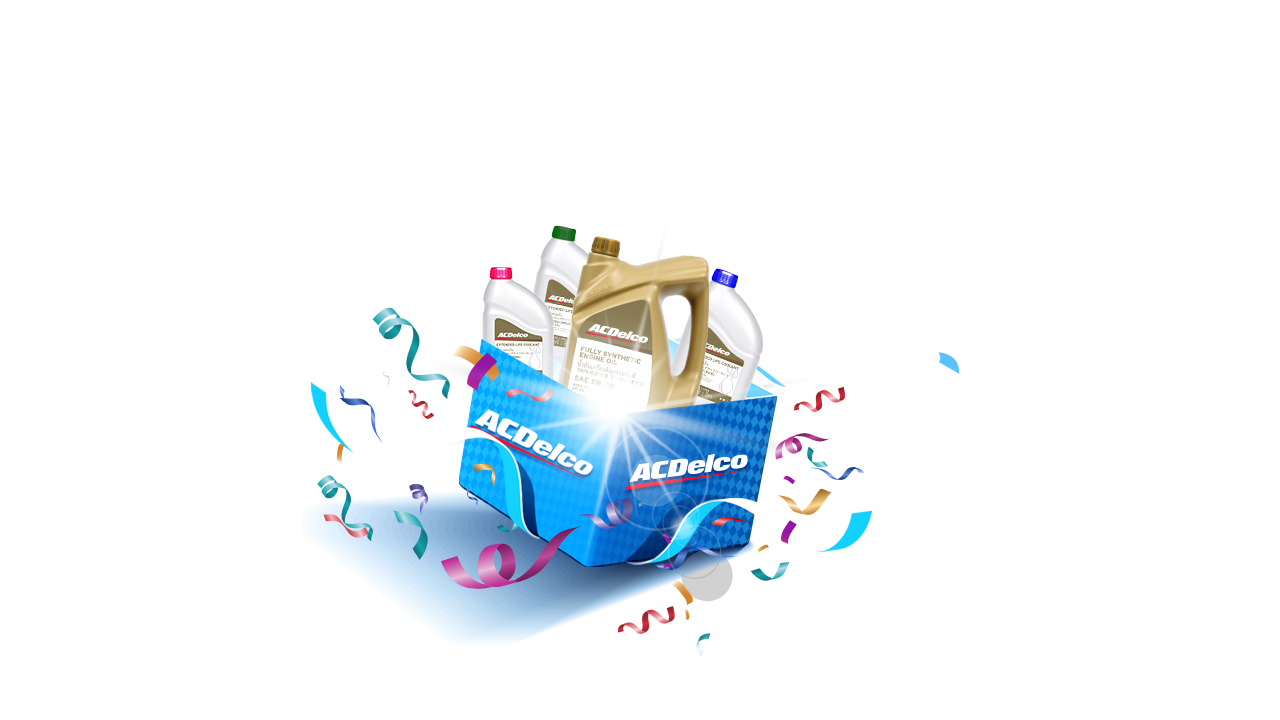
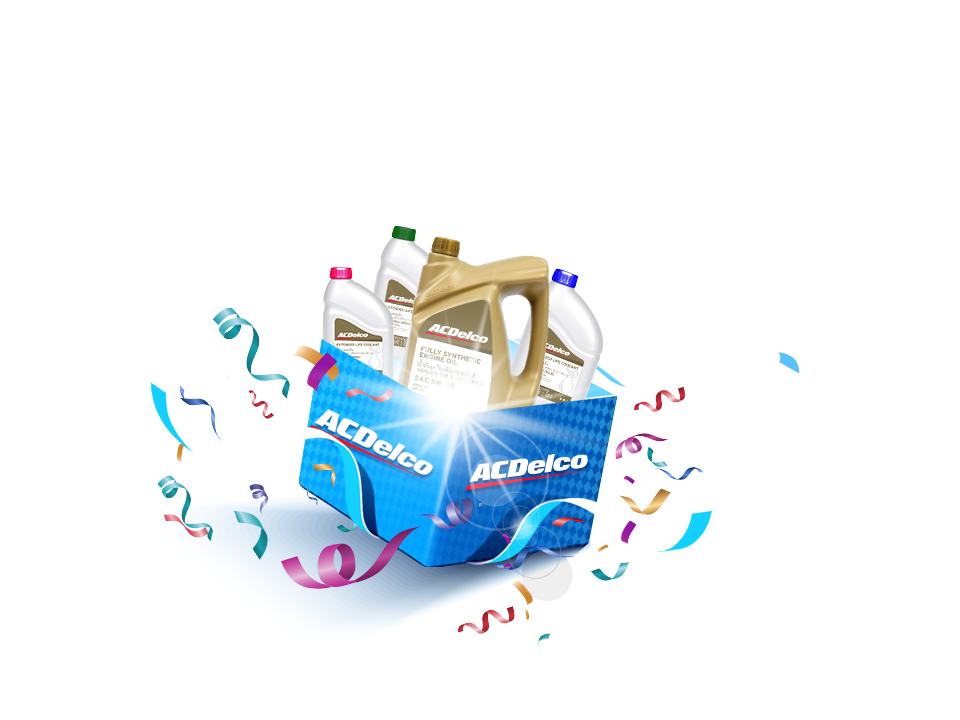
edit style

diff --git a/src/components/Winnerpage.jsx b/src/components/Winnerpage.jsx
@@ -66,7 +66,7 @@ const Winnerpage = () => {
         color: "black",
         position: "relative",
         overflow: "hidden",
-        backgroundImage: "url('BG_Luckdraw.png')",
+        backgroundImage: "url('BG_Luckdraw3.png')",
         backgroundSize: "100% 100%",
         backgroundPosition: "center",
         backgroundRepeat: "no-repeat",
@@ -92,113 +92,119 @@ const Winnerpage = () => {
           <ArrowBackIosNewIcon />
         </IconButton>
 
-        {/* Content container */}
-        <Box
-          sx={{
-            width: "100%",
-            display: "flex",
-            flexDirection: "column",
-            alignItems: "flex-end",
-            gap: 0,
-            pr: { xs: 4, sm: 6, md: 8 },
-            mt: 30,
-          }}
-        >
-          {/* Name and Sale container */}
-          <Box
-            sx={{
-              display: "flex",
-              flexDirection: "column",
-              alignItems: "center",
-              width: "58%", // This creates a box that's half the width
-            }}
-          >
-            {/* Prize Name */}
-            <Typography
-              variant="h5"
-              sx={{
-                fontFamily: "DBOzoneXBold",
-                fontWeight: "bold",
-                fontSize: { xs: "1.2rem", sm: "1.5rem", md: "4.5rem" },
-                // color: "#0C3C6F",
-                color: "white",
-                textShadow: "#2F2F2F 1px 0 8px",
-                width: 1,
-                mb: 0,
-                mt: 2,
-              }}
-            >
-              รางวัล {getPrizeDisplay(prizeName.split(" (")[0])}
-            </Typography>
-
-            {/* Name */}
-            <Typography
-              sx={{
-                fontWeight: "bold",
-                fontFamily: "DBOzoneXBold",
-                fontSize: { xs: "1.2rem", sm: "1.5rem", md: "4rem" },
-                color: "white",
-                textAlign: "center",
-                width: "100%",
-                textShadow: "#2F2F2F 1px 0 8px",
-                mb: 0,
-                mt: 0,
-              }}
-            >
-              คุณ {userData.firstname} {userData.lastname}
-            </Typography>
-            {/* Sale (centered within the box) */}
-            <Typography
-              sx={{
-                fontWeight: "bold",
-                fontFamily: "DBOzoneXBold",
-                fontSize: { xs: "1.2rem", sm: "1.5rem", md: "4rem" },
-                color: "white",
-                textAlign: "center", // Center the sale text
-                width: "100%",
-                textShadow: "#2F2F2F 1px 0 8px",
-                mb: 0,
-                mt: -4,
-              }}
-            >
-              {userData.Sale?.toString().replaceAll("B2B_", "")}
-            </Typography>
+        <Box sx={{ display: "flex", flexDirection: "row" }}>
+          <Box sx={{ width: "5%",mt:20,ml:-15,mr:10 }}>
+            <img src="Box1.png" />
           </Box>
 
-          {/* Ticket Number */}
-
+          {/* Content container */}
           <Box
             sx={{
-              width: "60%",
-              aspectRatio: "2 / 1",
+              width: "100%",
               display: "flex",
-              flexDirection: "row",
-              justifyContent: "center",
-              alignItems: "center",
-              backgroundImage: "url('Ticket.png')",
-              backgroundSize: "130% 130%",
-              backgroundPosition: "center",
-              backgroundRepeat: "no-repeat",
-              textShadow: "4px 4px 8px rgba(0,0,0,0.5)",
-              mt: -12,
-              pr: 20,
+              flexDirection: "column",
+              alignItems: "flex-end",
+              gap: 0,
+              pr: { xs: 4, sm: 6, md: 8 },
+              mt: 30,
             }}
           >
-            <Typography
-              variant="h3"
+            {/* Name and Sale container */}
+            <Box
               sx={{
-                fontWeight: "bold",
-                fontFamily: "DBOzoneXBold",
-                letterSpacing: "8px",
-                fontSize: { xs: "2rem", sm: "2.5rem", md: "7rem" },
-                color: "white",
-                mt: 0,
-                mb: 1,
-                alignSelf: "center",
+                display: "flex",
+                flexDirection: "column",
+                alignItems: "center",
+                width: "58%", // This creates a box that's half the width
               }}
             >
-              {ticketNumber}
-            </Typography>
+              {/* Prize Name */}
+              <Typography
+                variant="h5"
+                sx={{
+                  fontFamily: "DBOzoneXBold",
+                  fontWeight: "bold",
+                  fontSize: { xs: "1.2rem", sm: "1.5rem", md: "4.4rem" },
+                  // color: "#0C3C6F",
+                  color: "white",
+                  textShadow: "#2F2F2F 1px 0 8px",
+                  width: 1,
+                  mb: 0,
+                  mt: 4,
+                }}
+              >
+                รางวัล {getPrizeDisplay(prizeName.split(" (")[0])}
+              </Typography>
+
+              {/* Name */}
+              <Typography
+                sx={{
+                  fontWeight: "bold",
+                  fontFamily: "DBOzoneXBold",
+                  fontSize: { xs: "1.2rem", sm: "1.5rem", md: "4rem" },
+                  color: "white",
+                  textAlign: "center",
+                  width: "100%",
+                  textShadow: "#2F2F2F 1px 0 8px",
+                  mb: 0,
+                  mt: 0,
+                }}
+              >
+                คุณ {userData.firstname} {userData.lastname}
+              </Typography>
+              {/* Sale (centered within the box) */}
+              <Typography
+                sx={{
+                  fontWeight: "bold",
+                  fontFamily: "DBOzoneXBold",
+                  fontSize: { xs: "1.2rem", sm: "1.5rem", md: "4rem" },
+                  color: "white",
+                  textAlign: "center", // Center the sale text
+                  width: "100%",
+                  textShadow: "#2F2F2F 1px 0 8px",
+                  mb: 0,
+                  mt: -4,
+                }}
+              >
+                {userData.Sale?.toString().replaceAll("B2B_", "")}
+              </Typography>
+            </Box>
+
+            {/* Ticket Number */}
+
+            <Box
+              sx={{
+                width: "60%",
+                aspectRatio: "2 / 1",
+                display: "flex",
+                flexDirection: "row",
+                justifyContent: "center",
+                alignItems: "center",
+                backgroundImage: "url('Ticket.png')",
+                backgroundSize: "130% 130%",
+                backgroundPosition: "center",
+                backgroundRepeat: "no-repeat",
+                textShadow: "4px 4px 8px rgba(0,0,0,0.5)",
+                mt: -12,
+                pr: 20,
+              }}
+            >
+              <Typography
+                variant="h3"
+                sx={{
+                  fontWeight: "bold",
+                  fontFamily: "DBOzoneXBold",
+                  letterSpacing: "8px",
+                  fontSize: { xs: "2rem", sm: "2.5rem", md: "7rem" },
+                  color: "white",
+                  mt: 0,
+                  mb: 1,
+                  alignSelf: "center",
+                }}
+              >
+                {ticketNumber}
+              </Typography>
+            </Box>
           </Box>
         </Box>
       </Box>
